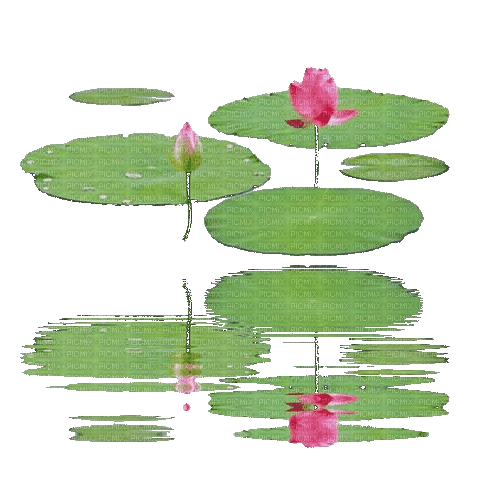
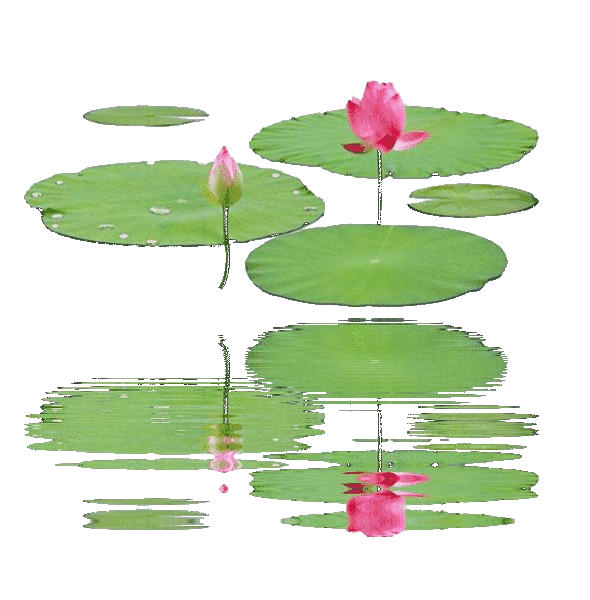
Animate lotus corner with a rippling water reflection.
Recreate the picmix lotuswater stamp effect since the live GIF cannot be fetched from their CDN.

diff --git a/script.js b/script.js
@@ -1,0 +1,54 @@
+// Lotus water stamp — bottom-left, with rippling reflection (picmix-style)
+(function () {
+    const canvas = document.getElementById('lotus-corner');
+    if (!canvas) return;
+
+    const ctx = canvas.getContext('2d');
+    const img = new Image();
+    img.src = 'lotus.png';
+
+    let t = 0;
+    let ready = false;
+
+    img.onload = () => {
+        canvas.width = img.naturalWidth;
+        canvas.height = img.naturalHeight;
+        ready = true;
+        requestAnimationFrame(frame);
+    };
+
+    function frame() {
+        if (!ready) return;
+
+        const w = canvas.width;
+        const h = canvas.height;
+        const mid = Math.floor(h * 0.5);
+
+        ctx.clearRect(0, 0, w, h);
+
+        // Top half: flowers + pads (static)
+        ctx.drawImage(img, 0, 0, w, mid, 0, 0, w, mid);
+
+        // Bottom half: water reflection with horizontal ripple
+        const amp = 4.5;
+        const freq = 0.045;
+        const speed = 0.09;
+        t += speed;
+
+        for (let y = mid; y < h; y++) {
+            const depth = (y - mid) / (h - mid);
+            const shift = Math.sin(y * freq + t) * amp * (0.35 + depth * 0.9);
+            const srcY = Math.min(h - 1, Math.max(mid, y + Math.sin(y * 0.08 - t * 0.7) * 1.2));
+
+            ctx.globalAlpha = 0.92 - depth * 0.15;
+            ctx.drawImage(
+                img,
+                0, srcY, w, 1,
+                shift, y, w, 1
+            );
+        }
+
+        ctx.globalAlpha = 1;
+        requestAnimationFrame(frame);
+    }
+})();

diff --git a/styles.css b/styles.css
@@ -176,16 +176,16 @@ body {
     mix-blend-mode: screen;
 }
 
-/* Lotus graphic — bottom left corner */
+/* Lotus water stamp — bottom left corner */
 .lotus-corner {
     position: fixed;
-    left: 12px;
-    bottom: 12px;
-    width: min(220px, 42vw);
+    left: 8px;
+    bottom: 8px;
+    width: min(200px, 40vw);
     height: auto;
     z-index: 4;
     pointer-events: none;
-    image-rendering: auto;
+    display: block;
 }
 
 @media (max-width: 720px) {

diff --git a/index.html b/index.html
@@ -61,6 +61,7 @@
 
     <div class="pink-overlay" aria-hidden="true"></div>
     <div class="name-mark" aria-hidden="true">ANIKA<br>YADAV</div>
-    <img class="lotus-corner" src="lotus.png" alt="" aria-hidden="true">
+    <canvas id="lotus-corner" class="lotus-corner" width="590" height="600" aria-hidden="true"></canvas>
+    <script src="script.js"></script>
 </body>
 </html>
